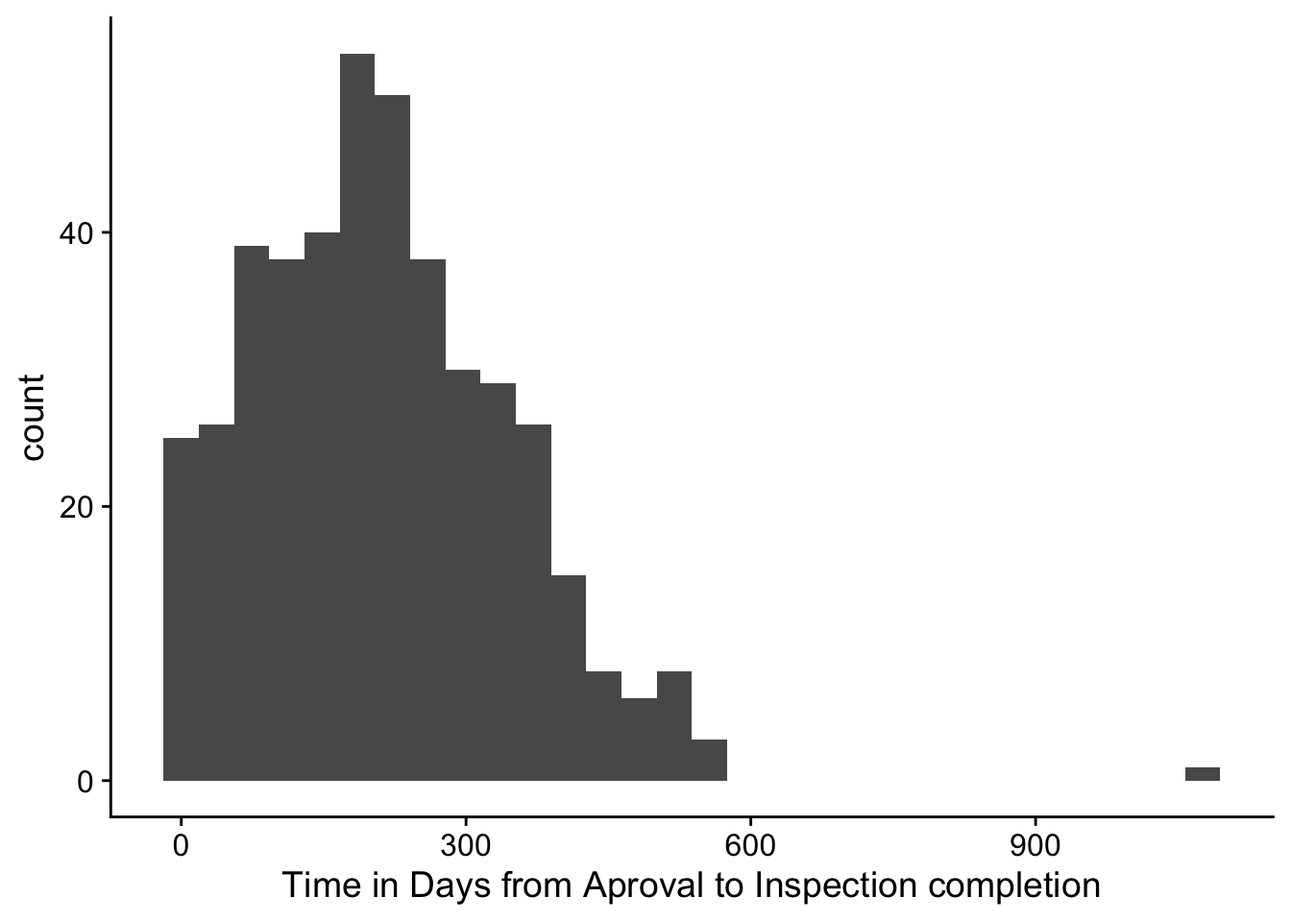
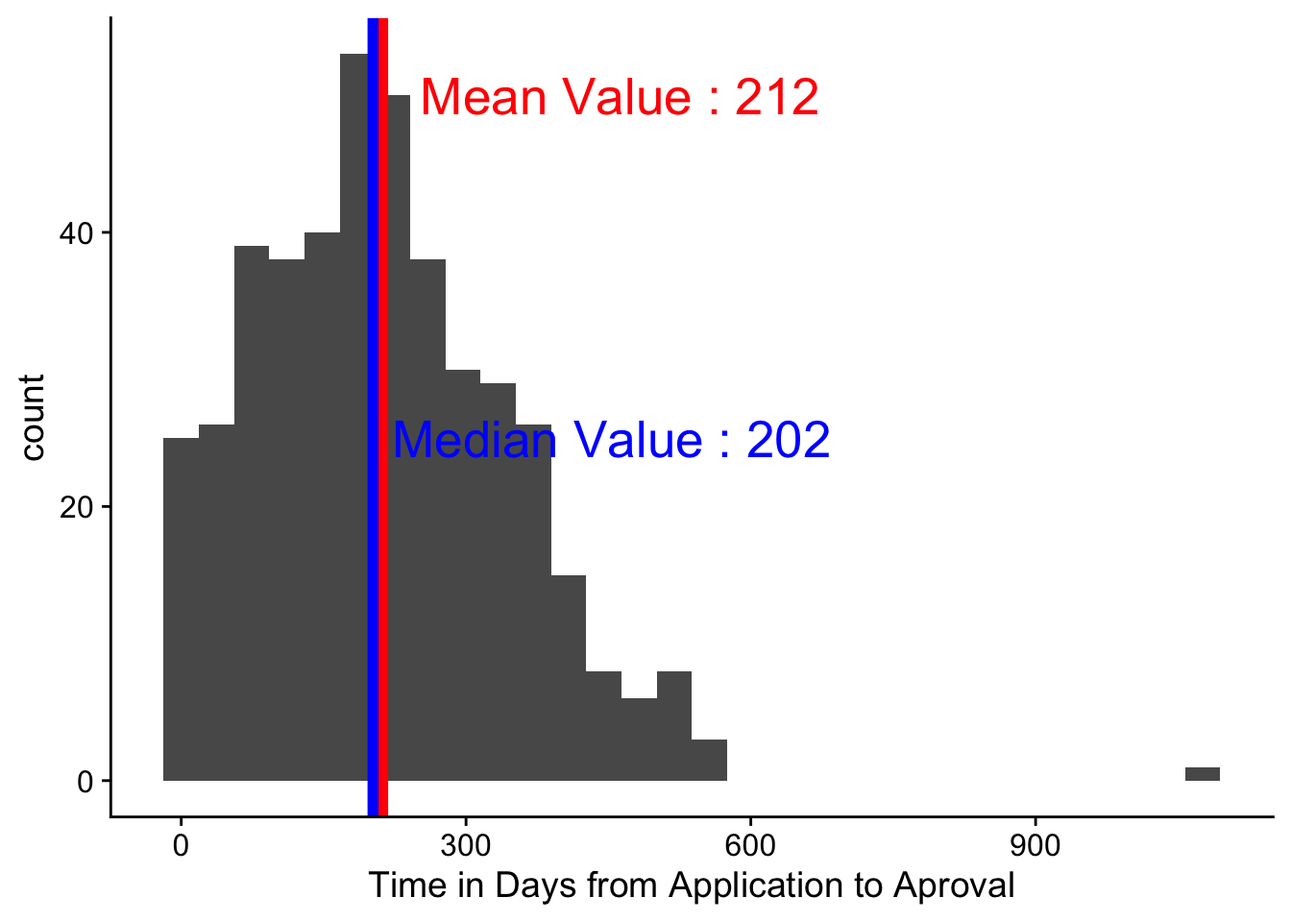
Updated website
Some minor changes including updating the introduction and adding mean and medians to plots of permiting times.

Changed region(s): [[0.2812, 0.0, 0.6562, 0.9062], [0.2188, 0.9375, 0.8438, 1.0]]

diff --git a/cost_breakdown.html b/cost_breakdown.html
@@ -338,26 +338,30 @@ largest_avg_cost &lt;- unique(sort(sub_df$avg_cost, decreasing = TRUE))[1:10]
 
 largest_cost &lt;- sub_df[sub_df$avg_cost %in% largest_avg_cost, ]
 
-ggplot2::ggplot(data = largest_cost, aes(x = reorder(Category, -avg_cost), y = Cost,
-                                   fill = Project)) +
+large_p &lt;- ggplot2::ggplot(data = largest_cost, aes(x = reorder(Category, -avg_cost), y = Cost/(10 ** 6),
+                                                   fill = Project)) +
   geom_bar(stat=&quot;identity&quot;, position=position_dodge()) +
-  ylab(&quot;Cost in Dollars&quot;) + xlab(&quot;Cost Category&quot;) + theme_minimal() +
+  ylab(&quot;Cost in Millions of Dollars&quot;) + xlab(&quot;Cost Category&quot;) + theme_minimal() +
   theme(axis.text.x=element_text(angle = 25, hjust = 1)) +
-  scale_fill_manual(values = my_cols)</code></pre>
-<p><img src="cost_breakdown_files/figure-html/barplots-1.png" width="1152" /></p>
+  scale_fill_manual(values = my_cols)
+plotly::ggplotly(large_p)</code></pre>
+<div id="htmlwidget-4bce4af60dcc12b15cb8" style="width:1152px;height:864px;" class="plotly html-widget"></div>
+<script type="application/json" data-for="htmlwidget-4bce4af60dcc12b15cb8">{"x":{"data":[{"orientation":"v","width":[0.18,0.18,0.18,0.18,0.18,0.18,0.18,0.18,0.18,0.18],"base":[0,0,0,0,0,0,0,0,0,0],"x":[0.64,1.64,2.64,3.64,4.64,5.64,6.64,7.64,8.64,9.64],"y":[2.46535276,3.15,2.3705315,2.2227227132,1.41749764,0.66,0.78,0,0,0.2],"text":["reorder(Category, -avg_cost): Construction Contingencies<br />Cost/(10^6): 2.4653528<br />Project: Capital stack","reorder(Category, -avg_cost): Land<br />Cost/(10^6): 3.1500000<br />Project: Capital stack","reorder(Category, -avg_cost): Developer Fee:<br />Cost/(10^6): 2.3705315<br />Project: Capital stack","reorder(Category, -avg_cost): Sales Tax<br />Cost/(10^6): 2.2227227<br />Project: Capital stack","reorder(Category, -avg_cost): Architect:<br />Cost/(10^6): 1.4174976<br />Project: Capital stack","reorder(Category, -avg_cost): Owner Construction Costs:<br />Cost/(10^6): 0.6600000<br />Project: Capital stack","reorder(Category, -avg_cost): Permits Fees & Hookups<br />Cost/(10^6): 0.7800000<br />Project: Capital stack","reorder(Category, -avg_cost): Operating Reserves<br />Cost/(10^6): 0.0000000<br />Project: Capital stack","reorder(Category, -avg_cost): Construction Loan Interest<br />Cost/(10^6): 0.0000000<br />Project: Capital stack","reorder(Category, -avg_cost): Carrying Costs at Rent Up<br />Cost/(10^6): 0.2000000<br />Project: Capital stack"],"type":"bar","marker":{"autocolorscale":false,"color":"rgba(59,154,178,1)","line":{"width":1.88976377952756,"color":"transparent"}},"name":"Capital stack","legendgroup":"Capital stack","showlegend":true,"xaxis":"x","yaxis":"y","hoverinfo":"text","frame":null},{"orientation":"v","width":[0.18,0.18,0.18,0.18,0.18,0.18,0.18,0.18,0.18,0.18],"base":[0,0,0,0,0,0,0,0,0,0],"x":[0.82,1.82,2.82,3.82,4.82,5.82,6.82,7.82,8.82,9.82],"y":[1.37530107,0,1.0579239,1.2610857657,0.83054673,0.66,0.065,0,0,0.2],"text":["reorder(Category, -avg_cost): Construction Contingencies<br />Cost/(10^6): 1.3753011<br />Project: Compounded Savings","reorder(Category, -avg_cost): Land<br />Cost/(10^6): 0.0000000<br />Project: Compounded Savings","reorder(Category, -avg_cost): Developer Fee:<br />Cost/(10^6): 1.0579239<br />Project: Compounded Savings","reorder(Category, -avg_cost): Sales Tax<br />Cost/(10^6): 1.2610858<br />Project: Compounded Savings","reorder(Category, -avg_cost): Architect:<br />Cost/(10^6): 0.8305467<br />Project: Compounded Savings","reorder(Category, -avg_cost): Owner Construction Costs:<br />Cost/(10^6): 0.6600000<br />Project: Compounded Savings","reorder(Category, -avg_cost): Permits Fees & Hookups<br />Cost/(10^6): 0.0650000<br />Project: Compounded Savings","reorder(Category, -avg_cost): Operating Reserves<br />Cost/(10^6): 0.0000000<br />Project: Compounded Savings","reorder(Category, -avg_cost): Construction Loan Interest<br />Cost/(10^6): 0.0000000<br />Project: Compounded Savings","reorder(Category, -avg_cost): Carrying Costs at Rent Up<br />Cost/(10^6): 0.2000000<br />Project: Compounded Savings"],"type":"bar","marker":{"autocolorscale":false,"color":"rgba(120,183,197,1)","line":{"width":1.88976377952756,"color":"transparent"}},"name":"Compounded Savings","legendgroup":"Compounded Savings","showlegend":true,"xaxis":"x","yaxis":"y","hoverinfo":"text","frame":null},{"orientation":"v","width":[0.18,0.18,0.18,0.18,0.18,0.18,0.18,0.18,0.18,0.18],"base":[0,0,0,0,0,0,0,0,0,0],"x":[1,2,3,4,5,6,7,8,9,10],"y":[2.4406992328,3.15,1.877460948,0,1.404222664,0.66,0.065,0.6,0.6,0.2],"text":["reorder(Category, -avg_cost): Construction Contingencies<br />Cost/(10^6): 2.4406992<br />Project: Fees, Permiting, and Tax","reorder(Category, -avg_cost): Land<br />Cost/(10^6): 3.1500000<br />Project: Fees, Permiting, and Tax","reorder(Category, -avg_cost): Developer Fee:<br />Cost/(10^6): 1.8774609<br />Project: Fees, Permiting, and Tax","reorder(Category, -avg_cost): Sales Tax<br />Cost/(10^6): 0.0000000<br />Project: Fees, Permiting, and Tax","reorder(Category, -avg_cost): Architect:<br />Cost/(10^6): 1.4042227<br />Project: Fees, Permiting, and Tax","reorder(Category, -avg_cost): Owner Construction Costs:<br />Cost/(10^6): 0.6600000<br />Project: Fees, Permiting, and Tax","reorder(Category, -avg_cost): Permits Fees & Hookups<br />Cost/(10^6): 0.0650000<br />Project: Fees, Permiting, and Tax","reorder(Category, -avg_cost): Operating Reserves<br />Cost/(10^6): 0.6000000<br />Project: Fees, Permiting, and Tax","reorder(Category, -avg_cost): Construction Loan Interest<br />Cost/(10^6): 0.6000000<br />Project: Fees, Permiting, and Tax","reorder(Category, -avg_cost): Carrying Costs at Rent Up<br />Cost/(10^6): 0.2000000<br />Project: Fees, Permiting, and Tax"],"type":"bar","marker":{"autocolorscale":false,"color":"rgba(235,204,42,1)","line":{"width":1.88976377952756,"color":"transparent"}},"name":"Fees, Permiting, and Tax","legendgroup":"Fees, Permiting, and Tax","showlegend":true,"xaxis":"x","yaxis":"y","hoverinfo":"text","frame":null},{"orientation":"v","width":[0.18,0.18,0.18,0.18,0.18,0.18,0.18,0.18,0.18,0.18],"base":[0,0,0,0,0,0,0,0,0,0],"x":[1.18,2.18,3.18,4.18,5.18,6.18,7.18,8.18,9.18,10.18],"y":[2.46535276,0,2.3705315,2.2227227132,1.41749764,0.66,0.78,0.6,0.6,0.2],"text":["reorder(Category, -avg_cost): Construction Contingencies<br />Cost/(10^6): 2.4653528<br />Project: Free Land","reorder(Category, -avg_cost): Land<br />Cost/(10^6): 0.0000000<br />Project: Free Land","reorder(Category, -avg_cost): Developer Fee:<br />Cost/(10^6): 2.3705315<br />Project: Free Land","reorder(Category, -avg_cost): Sales Tax<br />Cost/(10^6): 2.2227227<br />Project: Free Land","reorder(Category, -avg_cost): Architect:<br />Cost/(10^6): 1.4174976<br />Project: Free Land","reorder(Category, -avg_cost): Owner Construction Costs:<br />Cost/(10^6): 0.6600000<br />Project: Free Land","reorder(Category, -avg_cost): Permits Fees & Hookups<br />Cost/(10^6): 0.7800000<br />Project: Free Land","reorder(Category, -avg_cost): Operating Reserves<br />Cost/(10^6): 0.6000000<br />Project: Free Land","reorder(Category, -avg_cost): Construction Loan Interest<br />Cost/(10^6): 0.6000000<br />Project: Free Land","reorder(Category, -avg_cost): Carrying Costs at Rent Up<br />Cost/(10^6): 0.2000000<br />Project: Free Land"],"type":"bar","marker":{"autocolorscale":false,"color":"rgba(225,175,0,1)","line":{"width":1.88976377952756,"color":"transparent"}},"name":"Free Land","legendgroup":"Free Land","showlegend":true,"xaxis":"x","yaxis":"y","hoverinfo":"text","frame":null},{"orientation":"v","width":[0.18,0.18,0.18,0.18,0.18,0.18,0.18,0.18,0.18,0.18],"base":[0,0,0,0,0,0,0,0,0,0],"x":[1.36,2.36,3.36,4.36,5.36,6.36,7.36,8.36,9.36,10.36],"y":[1.389193,3.15,1.3357625,1.273173882,0.838027,0.66,0.78,0.6,0,0.2],"text":["reorder(Category, -avg_cost): Construction Contingencies<br />Cost/(10^6): 1.3891930<br />Project: Non-podium construction","reorder(Category, -avg_cost): Land<br />Cost/(10^6): 3.1500000<br />Project: Non-podium construction","reorder(Category, -avg_cost): Developer Fee:<br />Cost/(10^6): 1.3357625<br />Project: Non-podium construction","reorder(Category, -avg_cost): Sales Tax<br />Cost/(10^6): 1.2731739<br />Project: Non-podium construction","reorder(Category, -avg_cost): Architect:<br />Cost/(10^6): 0.8380270<br />Project: Non-podium construction","reorder(Category, -avg_cost): Owner Construction Costs:<br />Cost/(10^6): 0.6600000<br />Project: Non-podium construction","reorder(Category, -avg_cost): Permits Fees & Hookups<br />Cost/(10^6): 0.7800000<br />Project: Non-podium construction","reorder(Category, -avg_cost): Operating Reserves<br />Cost/(10^6): 0.6000000<br />Project: Non-podium construction","reorder(Category, -avg_cost): Construction Loan Interest<br />Cost/(10^6): 0.0000000<br />Project: Non-podium construction","reorder(Category, -avg_cost): Carrying Costs at Rent Up<br />Cost/(10^6): 0.2000000<br />Project: Non-podium construction"],"type":"bar","marker":{"autocolorscale":false,"color":"rgba(242,26,0,1)","line":{"width":1.88976377952756,"color":"transparent"}},"name":"Non-podium construction","legendgroup":"Non-podium construction","showlegend":true,"xaxis":"x","yaxis":"y","hoverinfo":"text","frame":null}],"layout":{"margin":{"t":25.7412480974125,"r":7.30593607305936,"b":39.6955859969559,"l":31.4155251141553},"font":{"color":"rgba(0,0,0,1)","family":"","size":14.6118721461187},"xaxis":{"domain":[0,1],"automargin":true,"type":"linear","autorange":false,"range":[0.4,10.6],"tickmode":"array","ticktext":["Construction Contingencies","Land","Developer Fee:","Sales Tax","Architect:","Owner Construction Costs:","Permits Fees & Hookups","Operating Reserves","Construction Loan Interest","Carrying Costs at Rent Up"],"tickvals":[1,2,3,4,5,6,7,8,9,10],"categoryorder":"array","categoryarray":["Construction Contingencies","Land","Developer Fee:","Sales Tax","Architect:","Owner Construction Costs:","Permits Fees & Hookups","Operating Reserves","Construction Loan Interest","Carrying Costs at Rent Up"],"nticks":null,"ticks":"","tickcolor":null,"ticklen":3.65296803652968,"tickwidth":0,"showticklabels":true,"tickfont":{"color":"rgba(77,77,77,1)","family":"","size":11.689497716895},"tickangle":-25,"showline":false,"linecolor":null,"linewidth":0,"showgrid":true,"gridcolor":"rgba(235,235,235,1)","gridwidth":0.66417600664176,"zeroline":false,"anchor":"y","title":{"text":"Cost Category","font":{"color":"rgba(0,0,0,1)","family":"","size":14.6118721461187}},"hoverformat":".2f"},"yaxis":{"domain":[0,1],"automargin":true,"type":"linear","autorange":false,"range":[-0.1575,3.3075],"tickmode":"array","ticktext":["0","1","2","3"],"tickvals":[0,1,2,3],"categoryorder":"array","categoryarray":["0","1","2","3"],"nticks":null,"ticks":"","tickcolor":null,"ticklen":3.65296803652968,"tickwidth":0,"showticklabels":true,"tickfont":{"color":"rgba(77,77,77,1)","family":"","size":11.689497716895},"tickangle":-0,"showline":false,"linecolor":null,"linewidth":0,"showgrid":true,"gridcolor":"rgba(235,235,235,1)","gridwidth":0.66417600664176,"zeroline":false,"anchor":"x","title":{"text":"Cost in Millions of Dollars","font":{"color":"rgba(0,0,0,1)","family":"","size":14.6118721461187}},"hoverformat":".2f"},"shapes":[{"type":"rect","fillcolor":null,"line":{"color":null,"width":0,"linetype":[]},"yref":"paper","xref":"paper","x0":0,"x1":1,"y0":0,"y1":1}],"showlegend":true,"legend":{"bgcolor":null,"bordercolor":null,"borderwidth":0,"font":{"color":"rgba(0,0,0,1)","family":"","size":11.689497716895},"y":0.951881014873141},"annotations":[{"text":"Project","x":1.02,"y":1,"showarrow":false,"ax":0,"ay":0,"font":{"color":"rgba(0,0,0,1)","family":"","size":14.6118721461187},"xref":"paper","yref":"paper","textangle":-0,"xanchor":"left","yanchor":"bottom","legendTitle":true}],"hovermode":"closest","barmode":"relative"},"config":{"doubleClick":"reset","showSendToCloud":false},"source":"A","attrs":{"162e677d3b564":{"x":{},"y":{},"fill":{},"type":"bar"}},"cur_data":"162e677d3b564","visdat":{"162e677d3b564":["function (y) ","x"]},"highlight":{"on":"plotly_click","persistent":false,"dynamic":false,"selectize":false,"opacityDim":0.2,"selected":{"opacity":1},"debounce":0},"shinyEvents":["plotly_hover","plotly_click","plotly_selected","plotly_relayout","plotly_brushed","plotly_brushing","plotly_clickannotation","plotly_doubleclick","plotly_deselect","plotly_afterplot","plotly_sunburstclick"],"base_url":"https://plot.ly"},"evals":[],"jsHooks":[]}</script>
 </div>
 <div id="next-ten-largest-expenses" class="section level1">
 <h1><span class="header-section-number">2</span> Next Ten Largest Expenses</h1>
 <pre class="r"><code>next_ten_avg &lt;- unique(sort(sub_df$avg_cost, decreasing = TRUE))[11:20]
 next_ten &lt;- sub_df[sub_df$avg_cost %in% next_ten_avg, ]
 
-ggplot2::ggplot(data = next_ten, aes(x = reorder(Category, -avg_cost), y = Cost,
-                                   fill = Project)) +
+next_p &lt;- ggplot2::ggplot(data = next_ten, aes(x = reorder(Category, -avg_cost), y = Cost/1000,
+                                               fill = Project)) +
   geom_bar(stat=&quot;identity&quot;, position=position_dodge()) +
-  ylab(&quot;Cost in Dollars&quot;) + xlab(&quot;Cost Category&quot;) + theme_minimal() +
+  ylab(&quot;Cost in Thousands of Dollars&quot;) + xlab(&quot;Cost Category&quot;) + theme_minimal() +
   theme(axis.text.x=element_text(angle = 25, hjust = 1)) +
-  scale_fill_manual(values = my_cols)</code></pre>
-<p><img src="cost_breakdown_files/figure-html/next_ten-1.png" width="1152" /></p>
+  scale_fill_manual(values = my_cols)
+plotly::ggplotly(next_p)</code></pre>
+<div id="htmlwidget-4eb0829f520641a82fb6" style="width:1152px;height:864px;" class="plotly html-widget"></div>
+<script type="application/json" data-for="htmlwidget-4eb0829f520641a82fb6">{"x":{"data":[{"orientation":"v","width":[0.18,0.18,0.18,0.18,0.18,0.18,0.18,0.18,0.18,0.18,0.18,0.18],"base":[0,0,0,0,0,0,0,0,0,0,0,0],"x":[0.64,1.64,2.64,3.64,4.64,5.64,6.64,7.64,8.64,9.64,10.64,11.64],"y":[195,170,152.1933333,0,60,0,45,0,37,36,50,50],"text":["reorder(Category, -avg_cost): Other Construction Testing Consultants:<br />Cost/1000: 195.00000<br />Project: Capital stack","reorder(Category, -avg_cost): Insurance:<br />Cost/1000: 170.00000<br />Project: Capital stack","reorder(Category, -avg_cost): Pre Construction Services<br />Cost/1000: 152.19333<br />Project: Capital stack","reorder(Category, -avg_cost): Bond Premium<br />Cost/1000:   0.00000<br />Project: Capital stack","reorder(Category, -avg_cost): Environmental Abatement by Owner: <br />Cost/1000:  60.00000<br />Project: Capital stack","reorder(Category, -avg_cost): LIHTC Legal:<br />Cost/1000:   0.00000<br />Project: Capital stack","reorder(Category, -avg_cost): Boundary & Topographic Survey<br />Cost/1000:  45.00000<br />Project: Capital stack","reorder(Category, -avg_cost): Investor Service Fee Reserve<br />Cost/1000:   0.00000<br />Project: Capital stack","reorder(Category, -avg_cost): Other Soft Costs: <br />Cost/1000:  37.00000<br />Project: Capital stack","reorder(Category, -avg_cost): Replacement Reserves<br />Cost/1000:  36.00000<br />Project: Capital stack","reorder(Category, -avg_cost): Demo<br />Cost/1000:  50.00000<br />Project: Capital stack","reorder(Category, -avg_cost): Relocation<br />Cost/1000:  50.00000<br />Project: Capital stack"],"type":"bar","marker":{"autocolorscale":false,"color":"rgba(59,154,178,1)","line":{"width":1.88976377952756,"color":"transparent"}},"name":"Capital stack","legendgroup":"Capital stack","showlegend":true,"xaxis":"x","yaxis":"y","hoverinfo":"text","frame":null},{"orientation":"v","width":[0.18,0.18,0.18,0.18,0.18,0.18,0.18,0.18,0.18,0.18,0.18,0.18],"base":[0,0,0,0,0,0,0,0,0,0,0,0],"x":[0.82,1.82,2.82,3.82,4.82,5.82,6.82,7.82,8.82,9.82,10.82,11.82],"y":[195,170,72.25,84.633912,60,0,45,0,37,36,0,0],"text":["reorder(Category, -avg_cost): Other Construction Testing Consultants:<br />Cost/1000: 195.00000<br />Project: Compounded Savings","reorder(Category, -avg_cost): Insurance:<br />Cost/1000: 170.00000<br />Project: Compounded Savings","reorder(Category, -avg_cost): Pre Construction Services<br />Cost/1000:  72.25000<br />Project: Compounded Savings","reorder(Category, -avg_cost): Bond Premium<br />Cost/1000:  84.63391<br />Project: Compounded Savings","reorder(Category, -avg_cost): Environmental Abatement by Owner: <br />Cost/1000:  60.00000<br />Project: Compounded Savings","reorder(Category, -avg_cost): LIHTC Legal:<br />Cost/1000:   0.00000<br />Project: Compounded Savings","reorder(Category, -avg_cost): Boundary & Topographic Survey<br />Cost/1000:  45.00000<br />Project: Compounded Savings","reorder(Category, -avg_cost): Investor Service Fee Reserve<br />Cost/1000:   0.00000<br />Project: Compounded Savings","reorder(Category, -avg_cost): Other Soft Costs: <br />Cost/1000:  37.00000<br />Project: Compounded Savings","reorder(Category, -avg_cost): Replacement Reserves<br />Cost/1000:  36.00000<br />Project: Compounded Savings","reorder(Category, -avg_cost): Demo<br />Cost/1000:   0.00000<br />Project: Compounded Savings","reorder(Category, -avg_cost): Relocation<br />Cost/1000:   0.00000<br />Project: Compounded Savings"],"type":"bar","marker":{"autocolorscale":false,"color":"rgba(120,183,197,1)","line":{"width":1.88976377952756,"color":"transparent"}},"name":"Compounded Savings","legendgroup":"Compounded Savings","showlegend":true,"xaxis":"x","yaxis":"y","hoverinfo":"text","frame":null},{"orientation":"v","width":[0.18,0.18,0.18,0.18,0.18,0.18,0.18,0.18,0.18,0.18,0.18,0.18],"base":[0,0,0,0,0,0,0,0,0,0,0,0],"x":[1,2,3,4,5,6,7,8,9,10,11,12],"y":[195,170,152.1933333,150.1968758,60,80,45,75,37,36,50,0],"text":["reorder(Category, -avg_cost): Other Construction Testing Consultants:<br />Cost/1000: 195.00000<br />Project: Fees, Permiting, and Tax","reorder(Category, -avg_cost): Insurance:<br />Cost/1000: 170.00000<br />Project: Fees, Permiting, and Tax","reorder(Category, -avg_cost): Pre Construction Services<br />Cost/1000: 152.19333<br />Project: Fees, Permiting, and Tax","reorder(Category, -avg_cost): Bond Premium<br />Cost/1000: 150.19688<br />Project: Fees, Permiting, and Tax","reorder(Category, -avg_cost): Environmental Abatement by Owner: <br />Cost/1000:  60.00000<br />Project: Fees, Permiting, and Tax","reorder(Category, -avg_cost): LIHTC Legal:<br />Cost/1000:  80.00000<br />Project: Fees, Permiting, and Tax","reorder(Category, -avg_cost): Boundary & Topographic Survey<br />Cost/1000:  45.00000<br />Project: Fees, Permiting, and Tax","reorder(Category, -avg_cost): Investor Service Fee Reserve<br />Cost/1000:  75.00000<br />Project: Fees, Permiting, and Tax","reorder(Category, -avg_cost): Other Soft Costs: <br />Cost/1000:  37.00000<br />Project: Fees, Permiting, and Tax","reorder(Category, -avg_cost): Replacement Reserves<br />Cost/1000:  36.00000<br />Project: Fees, Permiting, and Tax","reorder(Category, -avg_cost): Demo<br />Cost/1000:  50.00000<br />Project: Fees, Permiting, and Tax","reorder(Category, -avg_cost): Relocation<br />Cost/1000:   0.00000<br />Project: Fees, Permiting, and Tax"],"type":"bar","marker":{"autocolorscale":false,"color":"rgba(235,204,42,1)","line":{"width":1.88976377952756,"color":"transparent"}},"name":"Fees, Permiting, and Tax","legendgroup":"Fees, Permiting, and Tax","showlegend":true,"xaxis":"x","yaxis":"y","hoverinfo":"text","frame":null},{"orientation":"v","width":[0.18,0.18,0.18,0.18,0.18,0.18,0.18,0.18,0.18,0.18,0.18,0.18],"base":[0,0,0,0,0,0,0,0,0,0,0,0],"x":[1.18,2.18,3.18,4.18,5.18,6.18,7.18,8.18,9.18,10.18,11.18,12.18],"y":[195,170,152.1933333,151.714016,60,80,45,75,37,36,50,50],"text":["reorder(Category, -avg_cost): Other Construction Testing Consultants:<br />Cost/1000: 195.00000<br />Project: Free Land","reorder(Category, -avg_cost): Insurance:<br />Cost/1000: 170.00000<br />Project: Free Land","reorder(Category, -avg_cost): Pre Construction Services<br />Cost/1000: 152.19333<br />Project: Free Land","reorder(Category, -avg_cost): Bond Premium<br />Cost/1000: 151.71402<br />Project: Free Land","reorder(Category, -avg_cost): Environmental Abatement by Owner: <br />Cost/1000:  60.00000<br />Project: Free Land","reorder(Category, -avg_cost): LIHTC Legal:<br />Cost/1000:  80.00000<br />Project: Free Land","reorder(Category, -avg_cost): Boundary & Topographic Survey<br />Cost/1000:  45.00000<br />Project: Free Land","reorder(Category, -avg_cost): Investor Service Fee Reserve<br />Cost/1000:  75.00000<br />Project: Free Land","reorder(Category, -avg_cost): Other Soft Costs: <br />Cost/1000:  37.00000<br />Project: Free Land","reorder(Category, -avg_cost): Replacement Reserves<br />Cost/1000:  36.00000<br />Project: Free Land","reorder(Category, -avg_cost): Demo<br />Cost/1000:  50.00000<br />Project: Free Land","reorder(Category, -avg_cost): Relocation<br />Cost/1000:  50.00000<br />Project: Free Land"],"type":"bar","marker":{"autocolorscale":false,"color":"rgba(225,175,0,1)","line":{"width":1.88976377952756,"color":"transparent"}},"name":"Free Land","legendgroup":"Free Land","showlegend":true,"xaxis":"x","yaxis":"y","hoverinfo":"text","frame":null},{"orientation":"v","width":[0.18,0.18,0.18,0.18,0.18,0.18,0.18,0.18,0.18,0.18,0.18,0.18],"base":[0,0,0,0,0,0,0,0,0,0,0,0],"x":[1.36,2.36,3.36,4.36,5.36,6.36,7.36,8.36,9.36,10.36,11.36,12.36],"y":[195,170,72.25,85.4888,60,80,45,75,37,36,0,50],"text":["reorder(Category, -avg_cost): Other Construction Testing Consultants:<br />Cost/1000: 195.00000<br />Project: Non-podium construction","reorder(Category, -avg_cost): Insurance:<br />Cost/1000: 170.00000<br />Project: Non-podium construction","reorder(Category, -avg_cost): Pre Construction Services<br />Cost/1000:  72.25000<br />Project: Non-podium construction","reorder(Category, -avg_cost): Bond Premium<br />Cost/1000:  85.48880<br />Project: Non-podium construction","reorder(Category, -avg_cost): Environmental Abatement by Owner: <br />Cost/1000:  60.00000<br />Project: Non-podium construction","reorder(Category, -avg_cost): LIHTC Legal:<br />Cost/1000:  80.00000<br />Project: Non-podium construction","reorder(Category, -avg_cost): Boundary & Topographic Survey<br />Cost/1000:  45.00000<br />Project: Non-podium construction","reorder(Category, -avg_cost): Investor Service Fee Reserve<br />Cost/1000:  75.00000<br />Project: Non-podium construction","reorder(Category, -avg_cost): Other Soft Costs: <br />Cost/1000:  37.00000<br />Project: Non-podium construction","reorder(Category, -avg_cost): Replacement Reserves<br />Cost/1000:  36.00000<br />Project: Non-podium construction","reorder(Category, -avg_cost): Demo<br />Cost/1000:   0.00000<br />Project: Non-podium construction","reorder(Category, -avg_cost): Relocation<br />Cost/1000:  50.00000<br />Project: Non-podium construction"],"type":"bar","marker":{"autocolorscale":false,"color":"rgba(242,26,0,1)","line":{"width":1.88976377952756,"color":"transparent"}},"name":"Non-podium construction","legendgroup":"Non-podium construction","showlegend":true,"xaxis":"x","yaxis":"y","hoverinfo":"text","frame":null}],"layout":{"margin":{"t":25.7412480974125,"r":7.30593607305936,"b":39.6955859969559,"l":43.1050228310502},"font":{"color":"rgba(0,0,0,1)","family":"","size":14.6118721461187},"xaxis":{"domain":[0,1],"automargin":true,"type":"linear","autorange":false,"range":[0.4,12.6],"tickmode":"array","ticktext":["Other Construction Testing Consultants:","Insurance:","Pre Construction Services","Bond Premium","Environmental Abatement by Owner: ","LIHTC Legal:","Boundary & Topographic Survey","Investor Service Fee Reserve","Other Soft Costs: ","Replacement Reserves","Demo","Relocation"],"tickvals":[1,2,3,4,5,6,7,8,9,10,11,12],"categoryorder":"array","categoryarray":["Other Construction Testing Consultants:","Insurance:","Pre Construction Services","Bond Premium","Environmental Abatement by Owner: ","LIHTC Legal:","Boundary & Topographic Survey","Investor Service Fee Reserve","Other Soft Costs: ","Replacement Reserves","Demo","Relocation"],"nticks":null,"ticks":"","tickcolor":null,"ticklen":3.65296803652968,"tickwidth":0,"showticklabels":true,"tickfont":{"color":"rgba(77,77,77,1)","family":"","size":11.689497716895},"tickangle":-25,"showline":false,"linecolor":null,"linewidth":0,"showgrid":true,"gridcolor":"rgba(235,235,235,1)","gridwidth":0.66417600664176,"zeroline":false,"anchor":"y","title":{"text":"Cost Category","font":{"color":"rgba(0,0,0,1)","family":"","size":14.6118721461187}},"hoverformat":".2f"},"yaxis":{"domain":[0,1],"automargin":true,"type":"linear","autorange":false,"range":[-9.75,204.75],"tickmode":"array","ticktext":["0","50","100","150","200"],"tickvals":[0,50,100,150,200],"categoryorder":"array","categoryarray":["0","50","100","150","200"],"nticks":null,"ticks":"","tickcolor":null,"ticklen":3.65296803652968,"tickwidth":0,"showticklabels":true,"tickfont":{"color":"rgba(77,77,77,1)","family":"","size":11.689497716895},"tickangle":-0,"showline":false,"linecolor":null,"linewidth":0,"showgrid":true,"gridcolor":"rgba(235,235,235,1)","gridwidth":0.66417600664176,"zeroline":false,"anchor":"x","title":{"text":"Cost in Thousands of Dollars","font":{"color":"rgba(0,0,0,1)","family":"","size":14.6118721461187}},"hoverformat":".2f"},"shapes":[{"type":"rect","fillcolor":null,"line":{"color":null,"width":0,"linetype":[]},"yref":"paper","xref":"paper","x0":0,"x1":1,"y0":0,"y1":1}],"showlegend":true,"legend":{"bgcolor":null,"bordercolor":null,"borderwidth":0,"font":{"color":"rgba(0,0,0,1)","family":"","size":11.689497716895},"y":0.951881014873141},"annotations":[{"text":"Project","x":1.02,"y":1,"showarrow":false,"ax":0,"ay":0,"font":{"color":"rgba(0,0,0,1)","family":"","size":14.6118721461187},"xref":"paper","yref":"paper","textangle":-0,"xanchor":"left","yanchor":"bottom","legendTitle":true}],"hovermode":"closest","barmode":"relative"},"config":{"doubleClick":"reset","showSendToCloud":false},"source":"A","attrs":{"162e633e5dd5b":{"x":{},"y":{},"fill":{},"type":"bar"}},"cur_data":"162e633e5dd5b","visdat":{"162e633e5dd5b":["function (y) ","x"]},"highlight":{"on":"plotly_click","persistent":false,"dynamic":false,"selectize":false,"opacityDim":0.2,"selected":{"opacity":1},"debounce":0},"shinyEvents":["plotly_hover","plotly_click","plotly_selected","plotly_relayout","plotly_brushed","plotly_brushing","plotly_clickannotation","plotly_doubleclick","plotly_deselect","plotly_afterplot","plotly_sunburstclick"],"base_url":"https://plot.ly"},"evals":[],"jsHooks":[]}</script>
 <!-- # Costs that differ accross project types -->
 <!-- # Unchanging costs -->
 </div>

diff --git a/index.html b/index.html
@@ -10,7 +10,7 @@
 
 
 
-<meta name="date" content="2020-01-28" />
+<meta name="date" content="2020-02-04" />
 
 <title>Third Door Information:</title>
 
@@ -294,7 +294,7 @@ $(document).ready(function () {
 
 
 <h1 class="title toc-ignore">Third Door Information:</h1>
-<h4 class="date">2020-01-28</h4>
+<h4 class="date">2020-02-04</h4>
 
 </div>
 
@@ -303,6 +303,10 @@ $(document).ready(function () {
 <p>This website is meant to contain all of the information that Russel and Adam have been working on getting to you.</p>
 <p>The chapters included are:</p>
 <table>
+<colgroup>
+<col width="25%" />
+<col width="75%" />
+</colgroup>
 <thead>
 <tr class="header">
 <th>Chapter</th>
@@ -313,6 +317,14 @@ $(document).ready(function () {
 <tr class="odd">
 <td>Introduction</td>
 <td>Project purpose and rationale for data source selections</td>
+</tr>
+<tr class="even">
+<td>Project Cost Breakdown</td>
+<td>Estimates for the costs of projects based on various scenarios and exemptions.</td>
+</tr>
+<tr class="odd">
+<td>Permiting and Inspection times</td>
+<td>Summary of data from the City of Seattle’s data on permiting times both from request to permit issuing and permit issuing to inspection.</td>
 </tr>
 </tbody>
 </table>

diff --git a/permit_times.html b/permit_times.html
@@ -12,7 +12,7 @@
 <meta name="author" content="Russel Willems and Adam Elder" />
 
 
-<title>Summary of Data</title>
+<title>Permiting and Inspection Times</title>
 
 <script src="site_libs/jquery-1.11.3/jquery.min.js"></script>
 <meta name="viewport" content="width=device-width, initial-scale=1" />
@@ -381,7 +381,7 @@ div.tocify {
 
 
 
-<h1 class="title toc-ignore">Summary of Data</h1>
+<h1 class="title toc-ignore">Permiting and Inspection Times</h1>
 <h4 class="author">Russel Willems and Adam Elder</h4>
 <h4 class="date">1/22/2020</h4>
 

diff --git a/introduction.html b/introduction.html
@@ -373,10 +373,7 @@ div.tocify {
 </div>
 
 
-<p><br></p>
-<div id="third-door-does-cool-work-to-find-out-what-works-best-psh" class="section level2">
-<h2>Third door does cool work to find out what works best (PSH)</h2>
-</div>
+<p>This website is meant to be a repository for showing storing and communicating the research that has been done for Third Door.</p>
 
 
 
